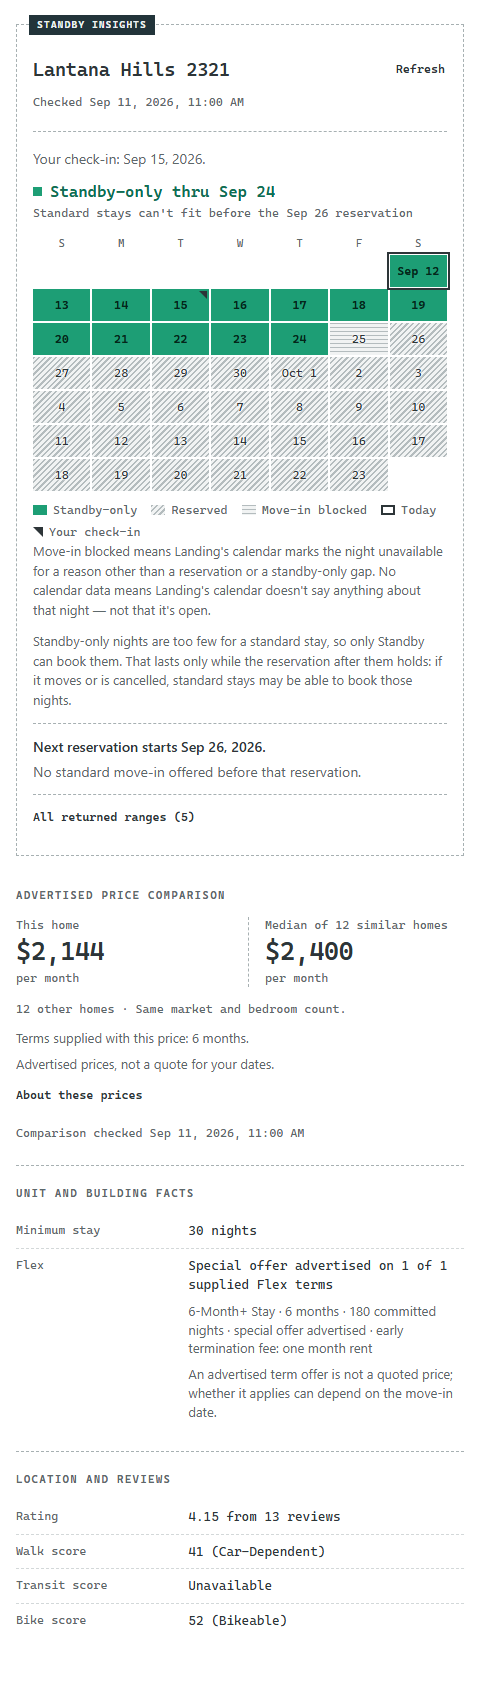
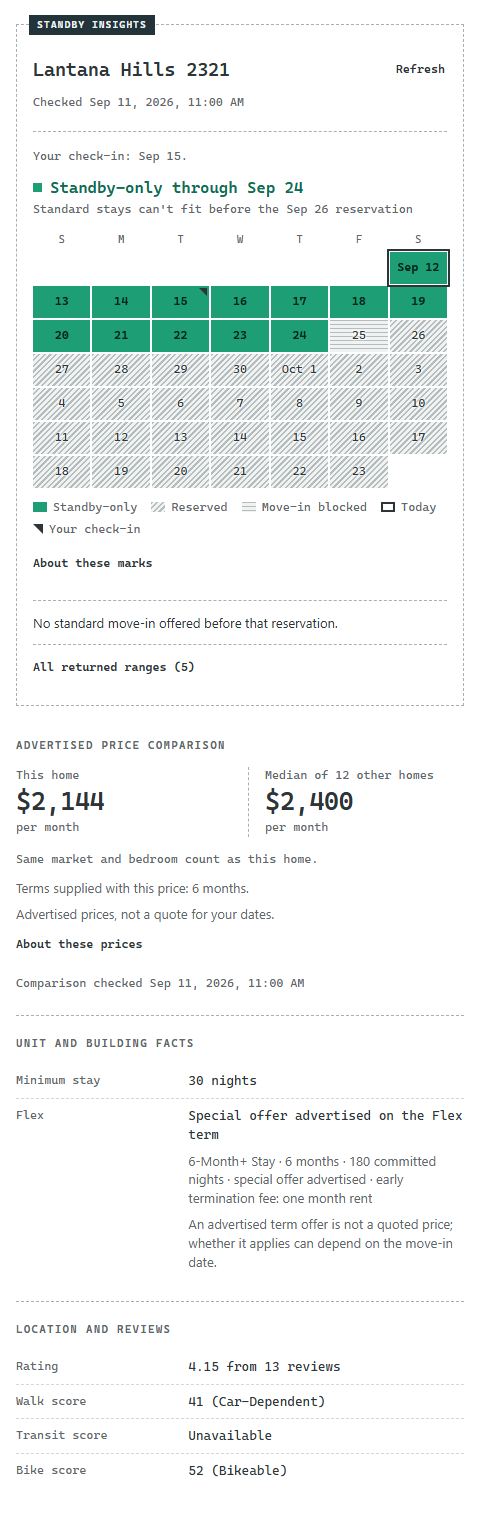
Second polish pass across cards and panel (#47)
The calendar summary no longer outweighs the standby-only headline, the
check-in note reads as data, redundant price and Flex wording is gone, and
detail lines avoid orphans. verify:panel assertions caught up with #57/#60.
Re-critique snapshot: 29/40, up from 26.

Closes #47

diff --git a/src/panel/panel.css b/src/panel/panel.css
@@ -94,7 +94,8 @@ h2 {
   text-transform: uppercase;
 }
 #calendar-status:not(:empty) { font: 600 13px/1.45 var(--mono); margin-bottom: 8px; }
-#reference-note:not(:empty) { color: var(--on-2); margin-bottom: 12px; }
+/* A named date, so it reads like the check time above it, not like prose. */
+#reference-note:not(:empty) { color: var(--on-2); font: 12px/1.45 var(--mono); margin-bottom: 12px; }
 
 #standby-only-headline { font: 600 16px/1.35 var(--mono); text-wrap: balance; }
 #standby-only-headline[data-standby-only="true"] { color: var(--standby-only-text); }
@@ -108,7 +109,7 @@ h2 {
   background: var(--standby-only);
   forced-color-adjust: none;
 }
-#standby-only-detail { color: var(--on-2); font: 12px/1.45 var(--mono); margin-top: 2px; }
+#standby-only-detail { color: var(--on-2); font: 12px/1.45 var(--mono); margin-top: 2px; text-wrap: pretty; }
 
 .weekdays, #calendar-grid { display: grid; grid-template-columns: repeat(7, minmax(0, 1fr)); gap: 2px; }
 .weekdays { margin-top: 14px; color: var(--on-2); font: 11px/1.5 var(--mono); text-align: center; }
@@ -144,7 +145,8 @@ h2 {
 .supporting, #comparison-check-time { color: var(--on-2); font-size: 13px; }
 
 .summary { margin-top: 14px; padding-top: 12px; border-top: 1px dashed var(--outline); }
-#summary-list li:first-child { font-weight: 600; }
+/* Quieter than the headline it follows: the headline is the answer, these qualify it. */
+#summary-list { font-size: 13px; text-wrap: pretty; }
 #summary-list li + li { margin-top: 4px; color: var(--on-2); }
 
 /* Every returned range, past the grid's six weeks: a typed instruction that opens a ledger. */

diff --git a/src/panel/render.js b/src/panel/render.js
@@ -190,7 +190,8 @@ function comparisonView(state) {
     view.statusText = `Not enough comparable prices: ${comparison.count} eligible other ${plural(comparison.count, 'home')} in this market and bedroom count, and at least ${MINIMUM_PEERS} are needed.`;
   } else if (comparison.status === 'ready') {
     view.statusText = `Median advertised monthly price across ${comparison.count} other ${plural(comparison.count, 'home')} in the same market and bedroom count: ${money(comparison.median)}.`;
-    view.scopeText = `${comparison.count} other ${plural(comparison.count, 'home')} · Same market and bedroom count.`;
+    // The median's label already carries the count.
+    view.scopeText = 'Same market and bedroom count as this home.';
     view.prices = [
       { label: 'This home', amount: comparison.subjectPrice ? money(comparison.subjectPrice.amount) : UNAVAILABLE,
         unit: comparison.subjectPrice ? (comparison.subjectPrice.label ?? 'per month (label not supplied)') : '' },
@@ -271,7 +272,7 @@ function flexFact(flexOptions) {
     return { text: `No special offer advertised on ${stated.length === 1 ? 'the Flex term' : `any of the ${stated.length} Flex terms`}`, details };
   }
   return {
-    text: `Special offer advertised on ${offered.length} of ${stated.length} Flex terms`,
+    text: stated.length === 1 ? 'Special offer advertised on the Flex term' : `Special offer advertised on ${offered.length} of ${stated.length} Flex terms`,
     details: [...details, 'An advertised term offer is not a quoted price; whether it applies can depend on the move-in date.'],
   };
 }

diff --git a/test/panel-render.test.js b/test/panel-render.test.js
@@ -116,7 +116,7 @@ test('price columns retain source labels and never show a median from incomplete
     { label: 'This home', amount: '$2,144', unit: 'per month (label not supplied)' },
     { label: 'Median of 12 other homes', amount: '$2,400', unit: 'per month' },
   ]);
-  assert.match(view.scopeText, /12 other homes.*same market and bedroom count/i);
+  assert.equal(view.scopeText, 'Same market and bedroom count as this home.');
   assert.match(view.termsNote, /not supplied/);
   for (const status of ['loading', 'unavailable', 'insufficient', 'unresolved-scope', 'idle']) {
     assert.deepEqual(describeState({ checkedAt: null, comparison: { ...comparison, status } }).comparison.prices, []);
@@ -257,6 +257,7 @@ test('a special offer on any Flex term is stated up front, with the term that ca
     term({ label: '12-Month+ Stay', months: 12, committedNights: 365, specialOffer: true, earlyTerminationFeeType: 'two-months-rent' }),
   ]));
   assert.match(item.text, /special offer advertised on 1 of 2/i);
+  assert.equal(flexItem(flexFactsState([term({ specialOffer: true })])).text, 'Special offer advertised on the Flex term');
   assert.equal(item.details.filter((line) => /Stay/.test(line)).length, 2, 'one detail line per supplied term');
   assert.match(item.details[1], /12-Month\+ Stay/);
   assert.match(item.details[1], /special offer/i);

diff --git a/src/content/card-annotations.css b/src/content/card-annotations.css
@@ -41,7 +41,7 @@
   background: #1d9e75;
   forced-color-adjust: none;
 }
-.standby-evidence-line { color: #5d686b; margin-top: 1px; }
+.standby-evidence-line { color: #5d686b; margin-top: 1px; text-wrap: pretty; }
 .standby-evidence-note { color: #5d686b; font-style: italic; margin-top: 1px; }
 
 .standby-strip {

diff --git a/.impeccable/critique/2026-09-24T00-32-58Z__src.md b/.impeccable/critique/2026-09-24T00-32-58Z__src.md
@@ -1,0 +1,52 @@
+---
+target: both surfaces (card annotations + side panel)
+total_score: 29
+max_score: 40
+na_heuristics: 
+p0_count: 0
+p1_count: 1
+timestamp: 2026-09-24T00-32-58Z
+slug: src
+---
+# Critique: Standby Insights — card annotations + side panel (src)
+Method: dual-agent (A: ab6dc4709982e0284 · B: a8a6da221550791fa). Score 29/40 (Good), up from 26/40 on 2026-09-14. Run after the #47 polish pass (#39–#46 landed).
+
+| # | Heuristic | Score | Key Issue |
+|---|---|---|---|
+| 1 | Visibility of System Status | 3 | Refresh disables to "Checking…"; loading says "Checking…" three times (panel.js:63-64, render.js:328,359) |
+| 2 | Match System / Real World | 3 | Marks now plain; "returned calendar", "All returned ranges", fallback heading "Standby evidence" still internal |
+| 3 | User Control and Freedom | 3 | No way to collapse card notes |
+| 4 | Consistency and Standards | 3 | Legend matches card key; identity/refresh-failed notes are 14px bold sans among mono siblings (panel.css:71) |
+| 5 | Error Prevention | 3 | Reserved and blocked now distinct; reference note says "today" without checking reference date is today (render.js:30,34) |
+| 6 | Recognition Rather Than Recall | 3 | Panel states check-in in words; card with a gap never names check-in; per-day detail hover-only in grid |
+| 7 | Flexibility and Efficiency | 2 | No price delta; no compact card mode |
+| 8 | Aesthetic and Minimalist Design | 3 | Panel calm; 4 of 6 live no-gap cards word-for-word identical, full key on every card |
+| 9 | Error Recovery | 3 | Causes named; unavailable repeats Refresh, mismatch repeats "not confirmed" |
+| 10 | Help and Documentation | 3 | "About these marks", standby-only explainer, "About these prices" cover vocabulary without hover |
+| **Total** | | **29/40** | **Good** |
+
+## Design specificity
+Authored. Dashed unfilled note, dark source tab, mono data, one green, texture-not-hue — one product across both surfaces, never Landing's. Generic spots: grey fine-print stack under prices, two-column facts table.
+Detector: CLI 2 findings (panel.html): undersized-ui-text on the 10px tab (documented DESIGN.md choice), design-system-color rgb(0,0,0) = forced-colors CanvasText (false positive). Browser: panel 320 adds body-text-viewport-edge ×5 on comparison paragraphs (12px padding at ≤380, documented) and flat-type-hierarchy (documented quiet ramp); cards: 10 findings, all the 10px tab; 28 Landing-owned. Contrast: on-2 5.74, tab 11.56, green text 6.23, numerals on green 4.78, mark 3.07; panel hatch 1.73, note outline 2.21 (decorative).
+Cognitive load: 3/8 failures, all on cards (chunking, hierarchy between gap/no-gap, key not disclosed progressively).
+
+## Priority issues
+- [P1] No-gap cards identical and as loud as gap cards: "No reservation shown from Oct 1 in the returned calendar / No standby-only nights in the next six weeks" at headline weight on 4 of 6 live cards (card-view.js:17-22,66-70; card-annotations.css:31). Fix: demote no-gap case to one quiet line; leave the "returned calendar" qualifier to the panel. distill
+- [P2] Full key on every card, wrapping to two lines (card-annotations.js:145-153). Fix: key only for unusual marks, or first card only. distill
+- [P2] Panel status copy redundant and off-system in loading/failure states (render.js:121/363, 326/361, 328/359; panel.css:71). Fix: one status sentence per state, in mono. harden
+- [P2] Price section leaves arithmetic to the member and ends on fine print (render.js:192-213). Fix: state "$256 below the median" under the figures. clarify
+- [P3] Disabling Refresh while focused drops keyboard focus (panel.js:63). Fix: aria-disabled + ignore clicks. harden
+
+## Persona red flags
+Alex: identical no-gap notes, no collapse, no price delta, redundant Flex detail line.
+Sam: Refresh drops focus; card button 24px min vs panel 44px; grid per-day detail title-only (ranges list covers it).
+Unread member: "returned calendar" jargon; hatch before Oct 1 under "No reservation shown from Oct 1"; "Standby-only through Oct 11" doesn't say it covers their check-in; failed panel headed "Standby evidence".
+
+## Minor
+Collapsed "About these marks" leaves ~40px band. "Your check-in" wraps alone at 320. Card move-in outline segment reads as empty. Disagreement fixture: "stated against today, Sep 15" while grid outlines Sep 12 (fixture artifact, but copy should not assert "today" unchecked).
+
+## Resolved since 2026-09-14
+Blocked has its own mark on both surfaces (#39); panel check-in in words (#40); no-gap headlines lead with reservation fact (#41); failure states name cause/next step/unit (#42); jargon replaced, marks explained behind one disclosure (#43, #57); legend keys only drawn marks (#44); wrapping/target/tab text (#46). #47 polish: calendar summary no longer outweighs the headline; check-in note set as data; redundant peer count and "1 of 1 Flex terms" removed; detail-line orphans prevented; stale verify:panel assertions fixed.
+
+## Questions
+Should a no-gap card show a strip at all, or one quiet line? Is "in the returned calendar" on every card discipline or a hedge the panel should carry once? Would "$256 below the median" break the no-prediction rule? What should the last thing a panel reader sees be?

diff --git a/DESIGN.md b/DESIGN.md
@@ -177,8 +177,8 @@ A cool-gray ink system on pure white, with one green that means exactly one thin
 - **Price** (600, 26px, 1.2, -0.02em, mono): advertised price figures; 22px at 380px and below; "Unavailable" drops to 16px (the Title step) with normal tracking. 22px is the one step that exists only as a narrow-width price size.
 - **Title** (600, 16px, 1.35, mono, balanced wrap): the standby-only headline, the visual lead of the calendar.
 - **Status** (600, 13px, 1.45, mono): calendar status line when there is no grid to show.
-- **Body** (400, 14px, 1.5, sans, tabular numerals): base text, reference notes, summaries. Supporting prose steps down to 13px in on-2.
-- **Data** (400, 12px, 1.45 to 1.5, mono): check time, detail lines, fact labels, price labels, legend, grid numerals.
+- **Body** (400, 14px, 1.5, sans, tabular numerals): base text. Supporting prose and the calendar summary under the grid step down to 13px, so nothing below the headline outweighs it.
+- **Data** (400, 12px, 1.45 to 1.5, mono): check time, the check-in reference note, detail lines, fact labels, price labels, legend, grid numerals.
 - **Label** (700, 11px, 0.12em, uppercase, mono, on-2): section headings (h2) for prices, facts and location.
 - **Tab** (700, 10px, 1.8, 0.1em, uppercase, mono): the "Standby Insights" source tab only. The card tab uses the same 10px.
 
@@ -237,7 +237,7 @@ Borderless text actions, like a typed instruction.
 - **Page notice:** the same note placed above Landing's results grid with no outer margin, 13px text with Resume sharing the line when there is room.
 
 ### Source Tab (signature)
-The attribution in words. A dark slate block reading "Standby Insights", uppercase mono, 700, 0.1em tracking, overlapping the top edge of the note. It is generated content, not markup, and appears exactly once per note. In forced-colors mode it gains a 1px CanvasText border so it keeps its edge. On cards it is a real element with tighter padding (1px 6px, 1.6 line height).
+The attribution in words. A dark slate block reading "Standby Insights", uppercase mono, 700, 0.1em tracking, overlapping the top edge of the note. It is a real element, so assistive technology hears the source, and appears exactly once per note. In forced-colors mode it gains a 1px CanvasText border so it keeps its edge. On cards it takes tighter padding (1px 6px, 1.6 line height).
 
 ### Six-Week Grid (signature)
 Seven columns of 32px day cells with 12px mono numerals. Standby-only days are green fills with bold near-black numerals; reserved days are hatched; move-in-blocked days carry horizontal rules; standard move-in days carry a 1px inset outline; not-returned days are dotted (4px dot pitch). Today gets a 2px graphite outline; the member's check-in gets a graphite corner triangle. The grid opts out of forced-color adjustment so textures survive. A legend below repeats every mark with a 14 x 10px key and a mono label: "Standby-only", "Reserved", "Move-in blocked", "Standard move-in", "No calendar data" (the member-facing word for a not-returned day). A static supporting line beside the legend explains "Move-in blocked" and "No calendar data" once, so neither term depends on a hover title.
